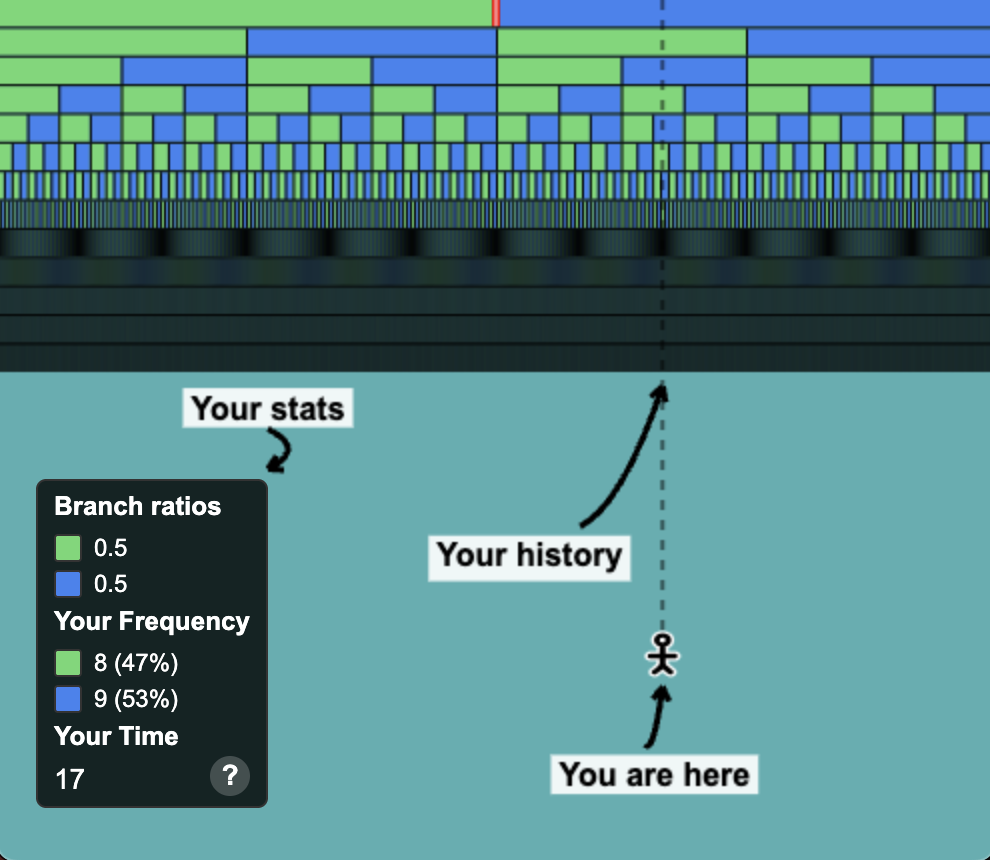
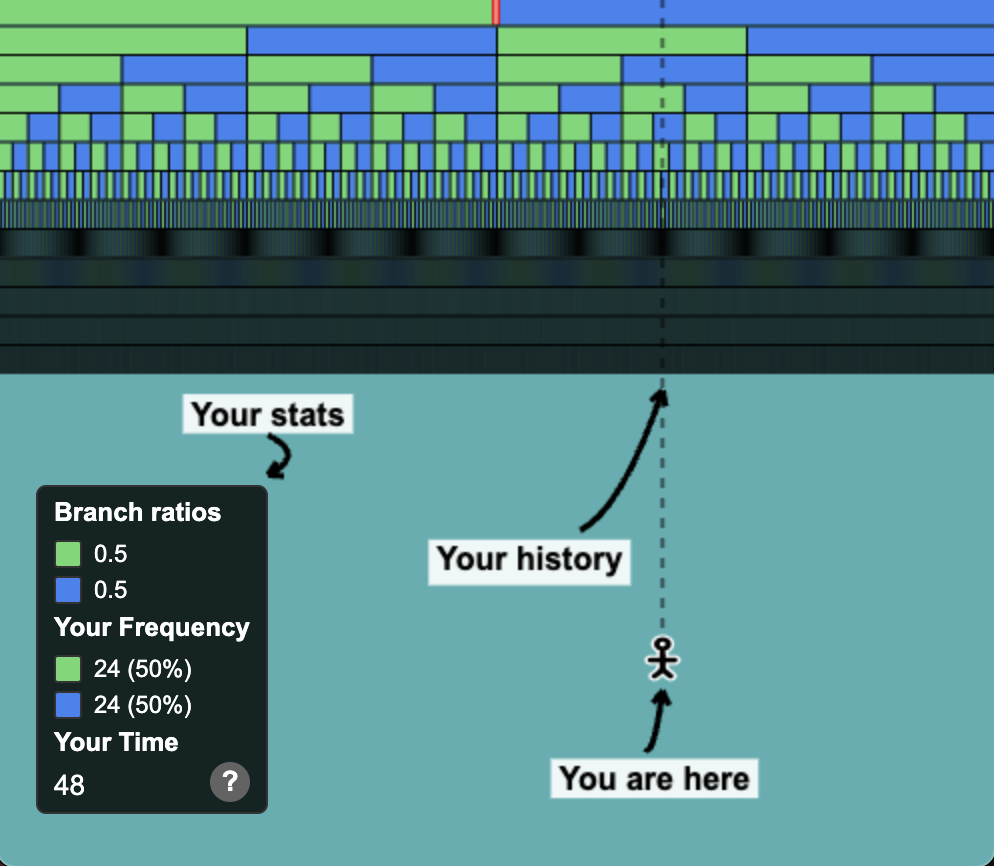
update default stats

diff --git a/index.html b/index.html
@@ -309,16 +309,16 @@ body, html {
         <div id="stats-frequency-items">
             <div class="stats-frequency-item">
                 <div class="legend-color" style="background-color: oklch(0.7933 0.179 145.62);"></div><span
-                    class="frequency-label">8 (47%)</span>
+                    class="frequency-label">24 (50%)</span>
                 </div>
             <div class="stats-frequency-item">
             <div class="legend-color" style="background-color: oklch(0.6239 0.181 258.33);"></div><span
-                class="frequency-label">9 (53%)</span>
+                class="frequency-label">24 (50%)</span>
             </div>
         </div>
         <h3>Your Time</h3>
         <div style="color: white; font-family: Arial, sans-serif; font-size: 14px;">
-          <span id="stats-cursor-time">17</span>
+          <span id="stats-cursor-time">48</span>
         </div>
         <a href="https://github.com/notfed/mw.identity.pub" class="help-link" target="_blank">?</a>
       </div>
@@ -390,7 +390,7 @@ let rowSortMode = false; // Track whether "row sort" mode is enabled
 let originalTree = null; // Store the original unsorted tree structure
 let helpPopupProtected = true; // Flag to protect help popup for first 500ms
 console.log('Initial helpPopupProtected:', helpPopupProtected);
-let cursorTime = 17; // Current time based on cursor Y position
+let cursorTime = 48; // Current time based on cursor Y position
 
 // Canvas setup
 const canvas = document.getElementById('canvas');
